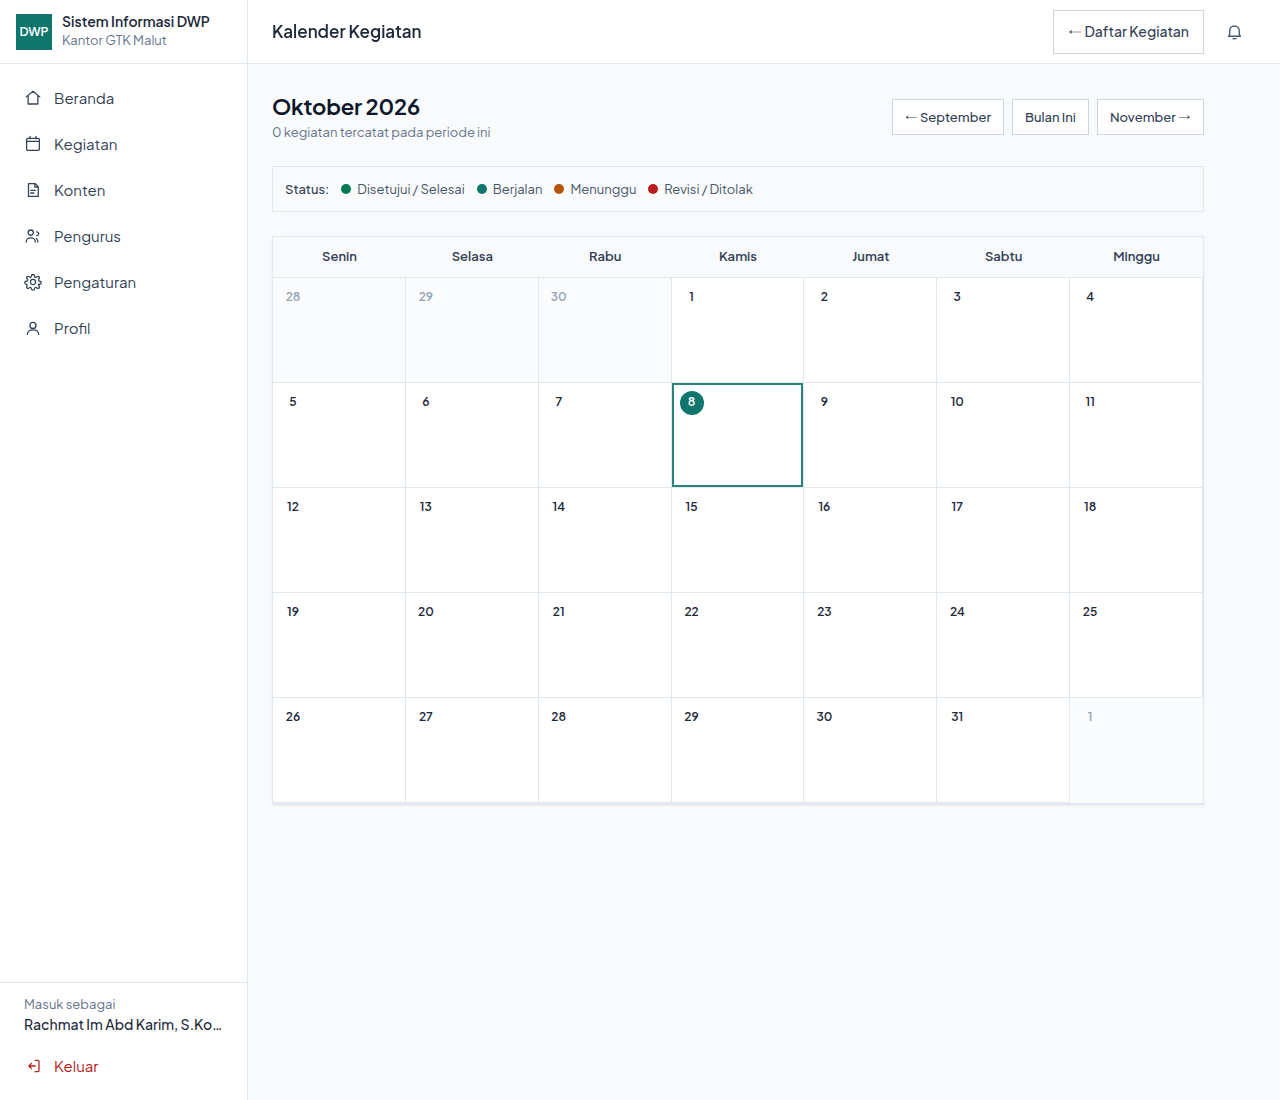
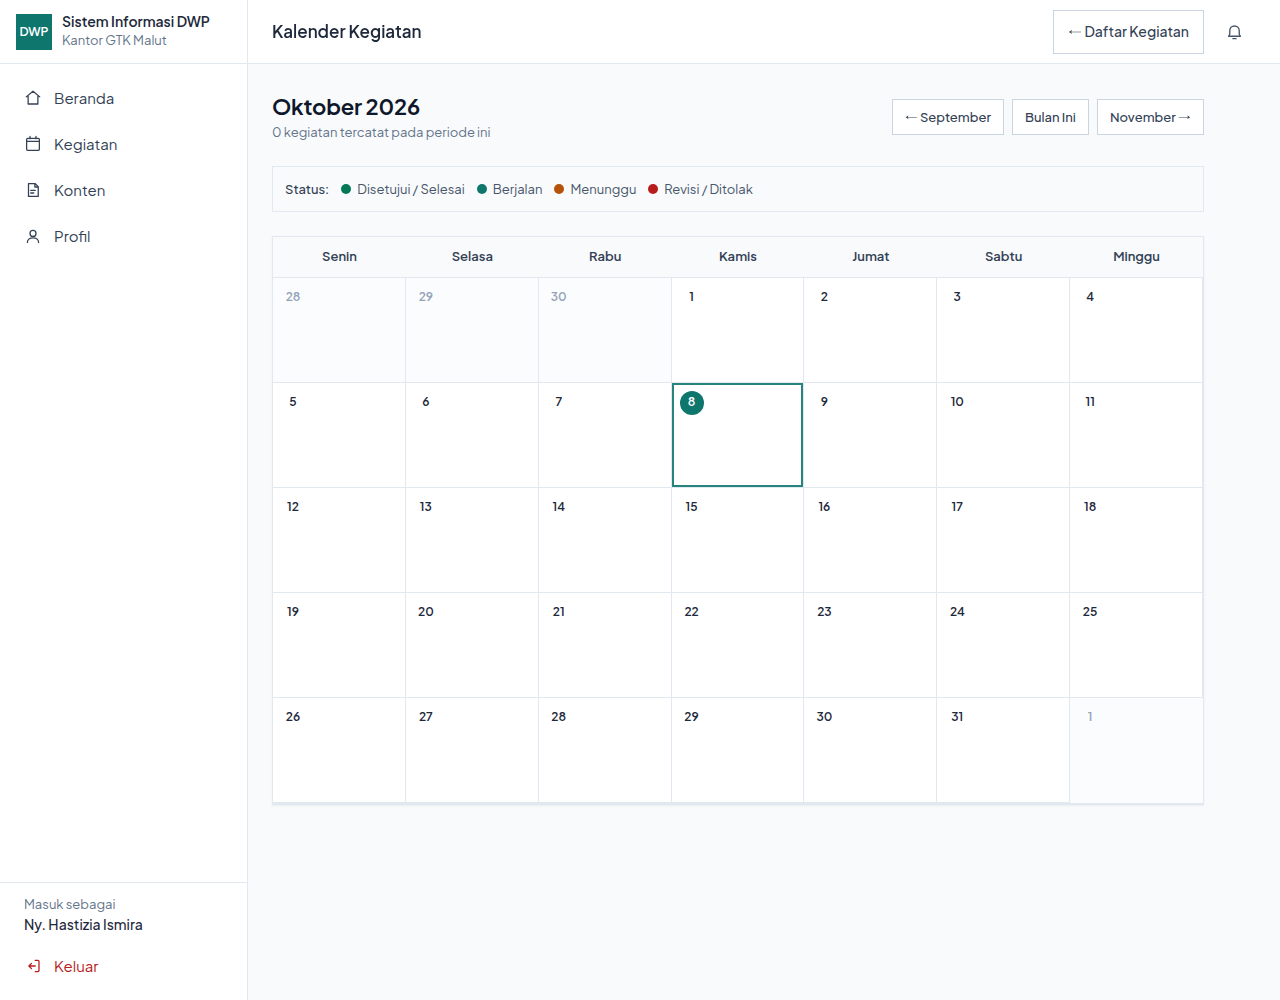
Tutup kebocoran wewenang tampilan situs + alat uji per peran + laporan uji tahap 10

diff --git a/docs/LAPORAN-UJI-PER-PERAN.md b/docs/LAPORAN-UJI-PER-PERAN.md
@@ -1,0 +1,65 @@
+# LAPORAN UJI MENYELURUH PER PERAN (Tahap 10)
+
+Tanggal: 8 Oktober 2026 · Status: **lolos, siap dilanjutkan ke pemasangan**
+
+---
+
+## 1. Hasil uji wewenang (lewat jalur data langsung)
+
+Delapan peran diuji satu per satu: boleh membaca apa, dan boleh mengubah apa.
+
+| Peran | Hasil |
+|---|---|
+| Super Admin | 0 penyimpangan |
+| Ketua | 0 penyimpangan |
+| Wakil Ketua | 0 penyimpangan |
+| Sekretaris | 0 penyimpangan |
+| Bendahara | 0 penyimpangan |
+| Ketua Seksi/Bidang | 0 penyimpangan |
+| Pengurus/Anggota | 0 penyimpangan |
+| Editor Konten | 0 penyimpangan |
+
+Data yang boleh dibaca pengurus: kegiatan, anggaran (RAB), catatan persetujuan, daftar
+pengurus, profil pengguna, pengaturan aplikasi, tampilan situs, berita, presensi.
+Data yang dibatasi: **catatan aktivitas** — hanya Super Admin, Ketua, Wakil Ketua, dan
+Sekretaris; empat peran lain terbukti **tidak** menerima data apa pun.
+
+Yang diuji untuk pengubahan: mengubah tampilan situs (telepon). Hasil: **hanya Super Admin
+yang berhasil mengubah; tujuh peran lain datanya tidak berubah** walaupun jawabannya
+"berhasil" (perilaku aturan pengaman yang benar).
+
+## 2. Hasil uji tampilan per peran (menu & pagar akses halaman)
+
+| Peran | Menu yang terlihat | Coba buka Pengaturan | Coba buka Pengurus |
+|---|---|---|---|
+| Super Admin | Beranda, Kegiatan, Konten, Pengurus, Pengaturan, Profil | bisa | bisa |
+| Ketua | Beranda, Kegiatan, Pengurus, Profil | dialihkan ke Beranda | bisa |
+| Bendahara | Beranda, Kegiatan, Profil | dialihkan | dialihkan |
+| Ketua Seksi/Bidang | Beranda, Kegiatan, Profil | dialihkan | dialihkan |
+| Pengurus/Anggota | Beranda, Kegiatan, Profil | dialihkan | dialihkan |
+| Editor Konten | Beranda, Kegiatan, Konten, Profil | dialihkan | dialihkan |
+
+## 3. Kebocoran yang ditemukan dan sudah ditutup
+
+**Temuan:** pengurus biasa berhasil **mengubah data tampilan situs** (warna/identitas),
+padahal seharusnya hanya Super Admin. Nilai uji benar-benar tersimpan di database.
+
+**Penyebab:** ada aturan pengaman lama yang membuka akses untuk semua pengurus, sehingga
+meniadakan pembatasan yang sudah ditulis.
+
+**Perbaikan:** seluruh aturan lama dihapus dan ditulis ulang; hanya Super Admin yang boleh
+mengubah. Diuji ulang: delapan peran, semuanya benar.
+
+## 4. Catatan penting tentang cara menguji
+
+Selama pengujian sempat muncul penilaian yang **salah**: perubahan yang ditolak tetap
+mengembalikan jawaban "berhasil" tanpa mengubah data, sehingga tampak ada kebocoran padahal
+tidak. Pelajaran: **yang menentukan adalah apakah datanya benar-benar berubah**, bukan kode
+jawaban. Cara uji sudah diperbaiki (baca nilai sebelum, coba ubah, baca lagi sesudah).
+
+## 5. Yang belum diuji
+
+- Uji tampilan di ukuran layar sungguhan (HP/tablet) untuk seluruh halaman per peran —
+  baru pada beberapa halaman utama.
+- Alur bersamaan beberapa pengurus menyetujui pada waktu yang sama.
+- Pemulihan dari cadangan (belum ada prosedurnya).
